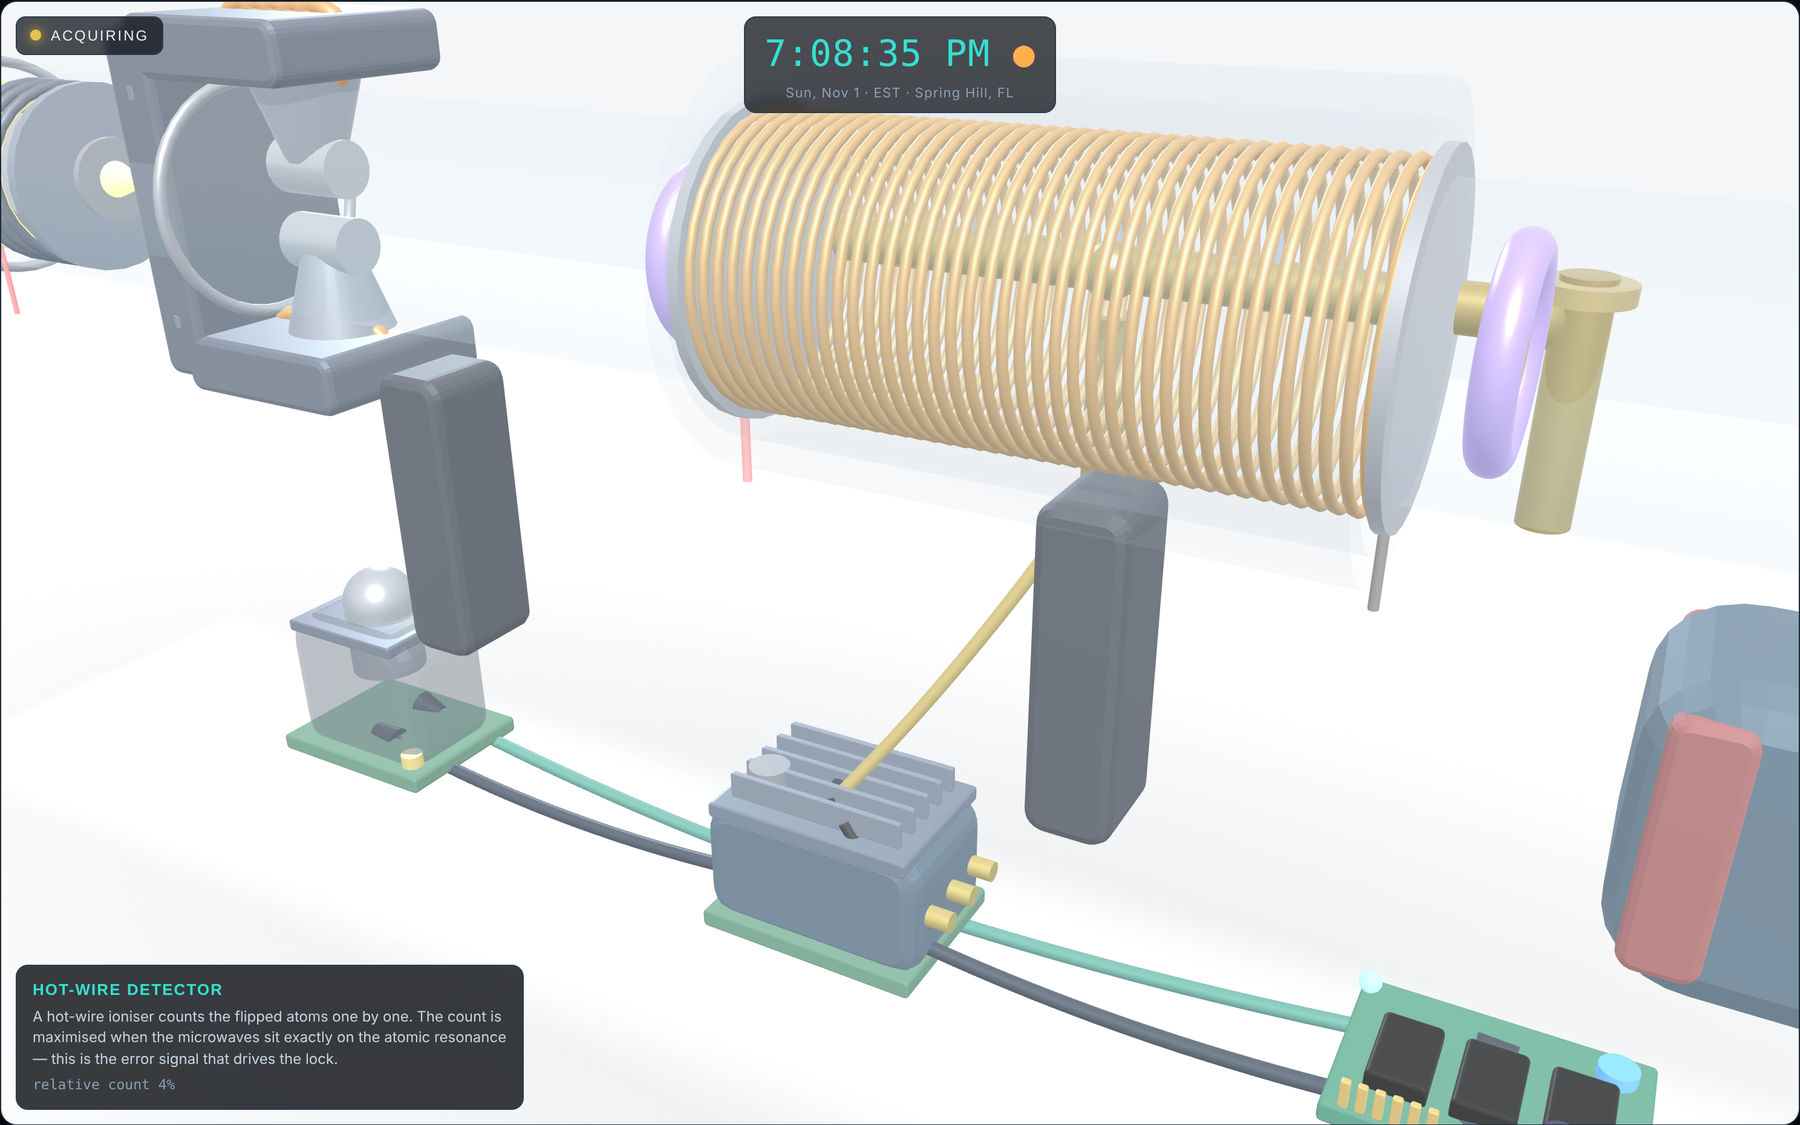
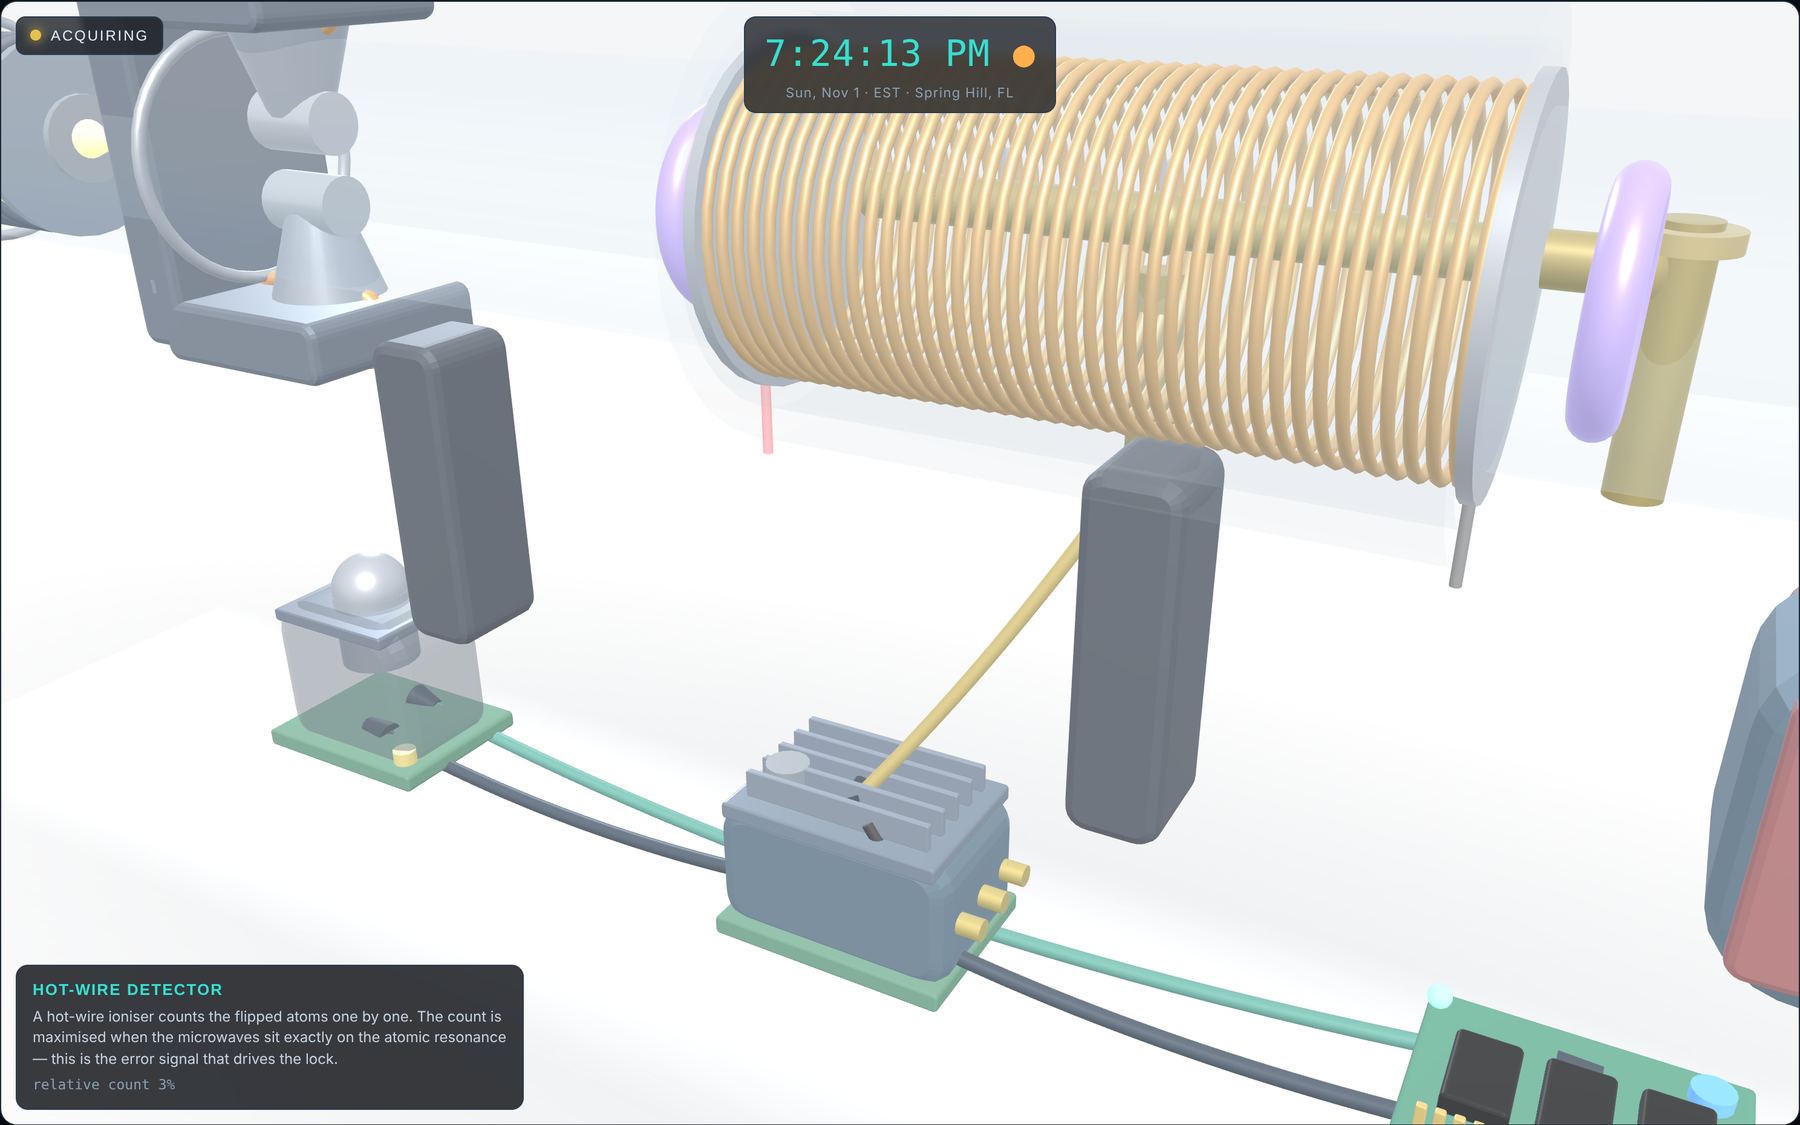
Complete the render: polished reflective bench
Give the floor a satin dielectric finish so it reflects the studio environment
and the assembly sits on a real surface. Re-render all figures and the cover,
sync the hosted standalone build.

Claude-Session: https://claude.ai/code/session_01YXoVwwxemi4SoJ6UT6wZSp

diff --git a/posts/teardown-engine-to-atomic-clock/code/atomic-clock.html b/posts/teardown-engine-to-atomic-clock/code/atomic-clock.html
@@ -345,7 +345,7 @@
     root.add(coax(2,-3,-0.25, -4,-3,-0.25, 0.55, 0x2f6a5a, 0.035));   // servo -> xo (correction)
 
     // lab-bench floor
-    var floor=new THREE.Mesh(new THREE.PlaneGeometry(46,24), new THREE.MeshStandardMaterial({color:0xeceff3, roughness:0.9, metalness:0.0}));
+    var floor=new THREE.Mesh(new THREE.PlaneGeometry(46,24), new THREE.MeshStandardMaterial({color:0xe9edf2, roughness:0.45, metalness:0.0, envMapIntensity:0.9}));
     floor.rotation.x=-Math.PI/2; floor.position.set(0,-3.54,0); floor.receiveShadow=true; root.add(floor);
     // faint occlusion blob to seat the assembly, under the real cast shadow
     var shc=document.createElement('canvas'); shc.width=shc.height=256; var sx=shc.getContext('2d');
